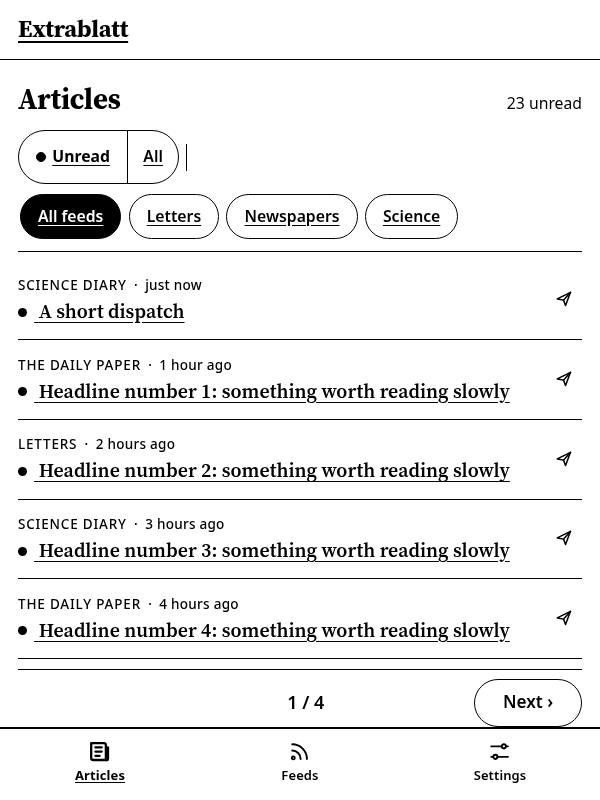
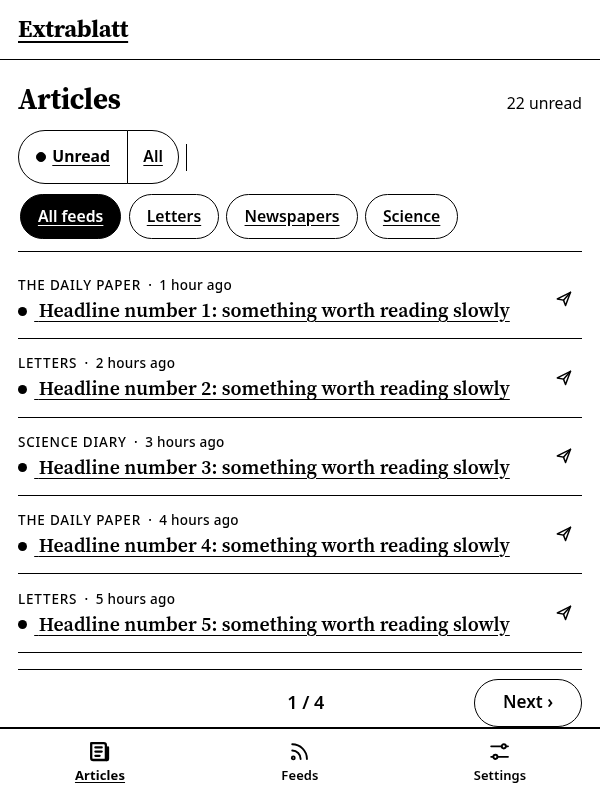
Keep the tab bar on e-ink Kindles at every width
Paperwhite, Oasis, and Scribe are wider than 720px, so they were getting
the desktop top nav and losing the bottom tab bar. html.eink now hides
.appnav, shows the tab bar with prefixed flex, and keeps body padding
with a literal fallback for browsers that ignore custom properties.

diff --git a/src/main/resources/static/css/eink.css b/src/main/resources/static/css/eink.css
@@ -86,6 +86,30 @@ html.eink .tabbar {
   border-top: 2px solid #000000;
 }
 
+/* Paperwhite (758px), Oasis and Scribe (930px) are past app.css's 720px
+   breakpoint, which would swap the tab bar for the desktop nav. On e-ink the tab
+   bar stays at every width. Flex, not grid, since old Kindle browsers lack grid. */
+html.eink .appnav {
+  display: none;
+}
+
+html.eink .tabbar {
+  display: -webkit-box;
+  display: -webkit-flex;
+  display: flex;
+}
+
+html.eink .tabbar a {
+  -webkit-box-flex: 1;
+  -webkit-flex: 1 1 0;
+  flex: 1 1 0;
+}
+
+html.eink body.has-tabbar {
+  padding-bottom: 60px;
+  padding-bottom: calc(var(--tabbar-h) + var(--safe-bottom));
+}
+
 html.eink .tabbar a,
 html.eink .tabbar a[aria-current="page"] {
   color: #000000;
